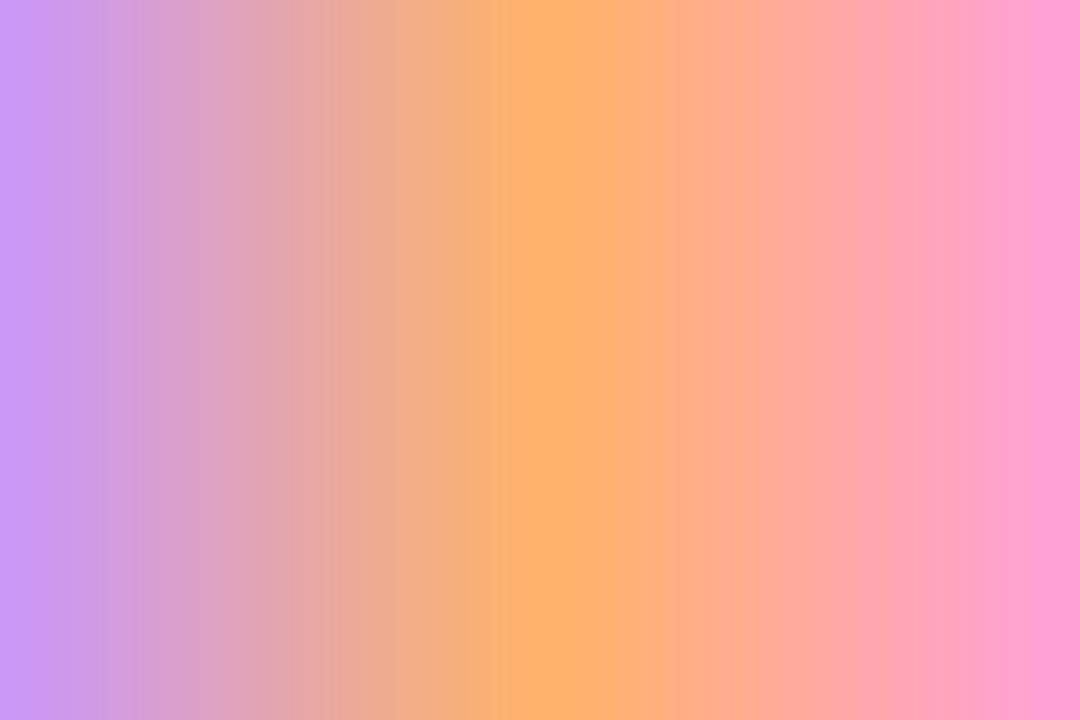
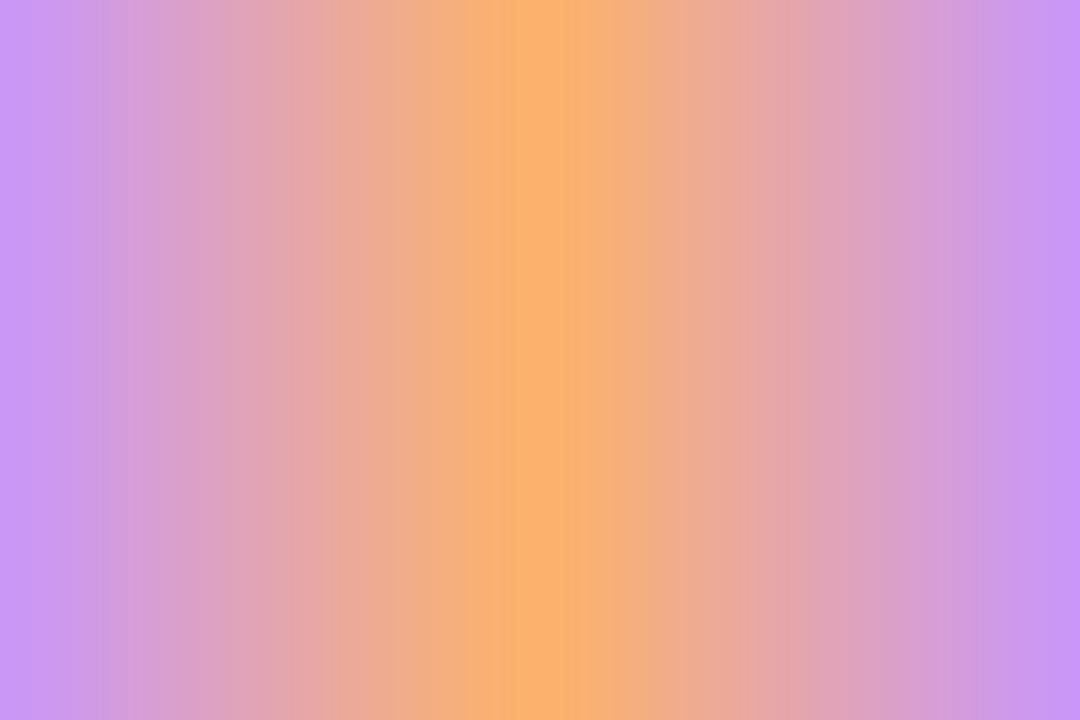
complete app

Changed region(s): [[0.7028, 0.0, 1.0, 1.0]]

diff --git a/gradient_image.py b/gradient_image.py
@@ -12,7 +12,7 @@ X, Y = np.meshgrid(x, y)
 # Định nghĩa 3 màu (RGB)
 left_color = np.array([200, 150, 255])   # tím hồng bên trái
 center_color = np.array([255, 180, 100]) # cam ở giữa
-right_color = np.array([255, 160, 220])  # hồng nhạt bên phải
+right_color = np.array([200, 150, 255])  # tím hồng bên phải
 
 # Tạo gradient 3 vùng:
 # - 0 → 0.5: tím hồng → cam
